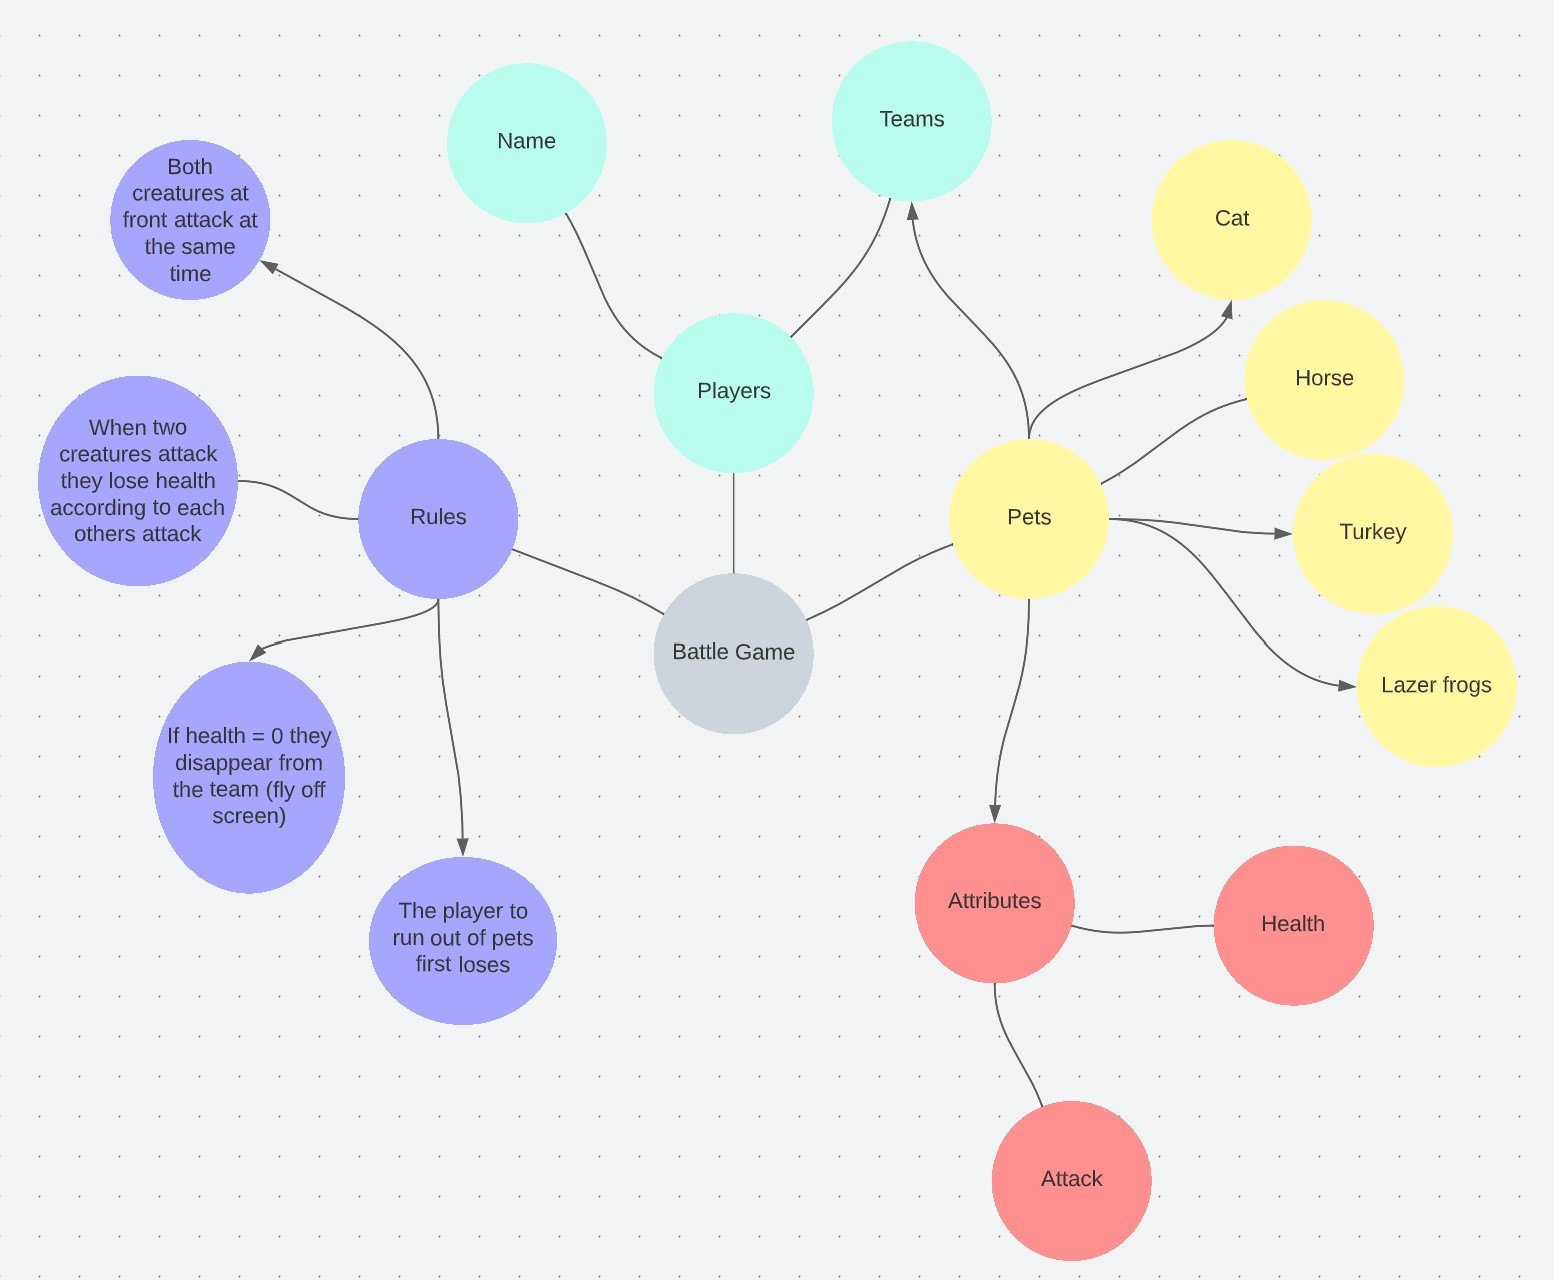
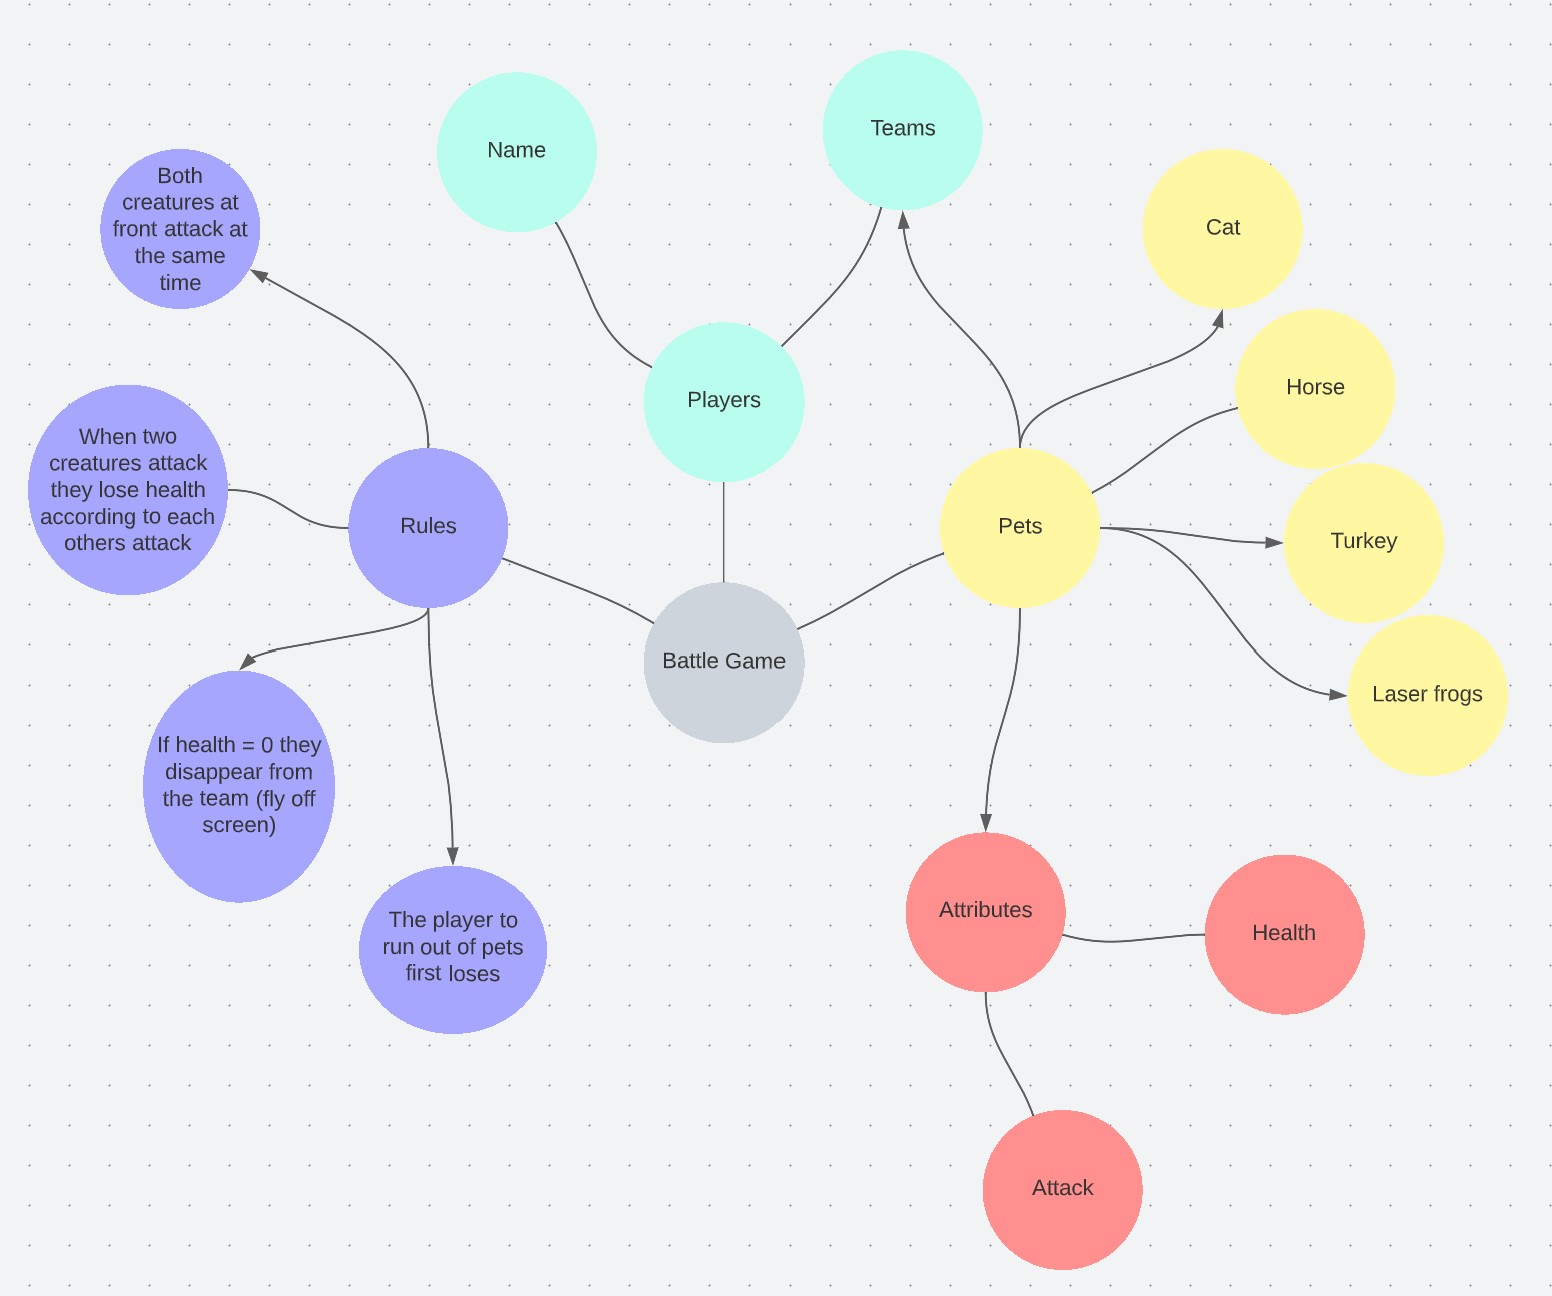
typos

diff --git a/_lessons/2022-06-10-Classes.md b/_lessons/2022-06-10-Classes.md
@@ -50,62 +50,62 @@ We'll take a quick look a the mind map we made and just pick something interesti
 
 ![mind map](../assets/mindmap.jpg)
 
-So for me there is one particular thing in the mind map that stands out. I'm of course going for a lazer frog.
+So for me there is one particular thing in the mind map that stands out. I'm of course going for a laser frog.
 
-Let's create a class to represent lazer frogs
+Let's create a class to represent laser frogs
 
 Here is the boring [blah blah blah about classes](https://docs.python.org/3/tutorial/classes.html) in the documentation. 
 
 We'll just dive in.
 
 ~~~python
-class LazerFrog:
+class LaserFrog:
 ~~~
 
-And we can then define things a LazerFrog does using "def"
+And we can then define things a LaserFrog does using "def"
 
 ~~~python
-class LazerFrog:
+class LaserFrog:
   def Battle(self):
-    print("The lazer frog fires a lazer at its opponent")
+    print("The laser frog fires a laser at its opponent")
 ~~~
 
-We can also have "attributes". Things that belong the a LazerFrog. One way to do this is to just set it. Here we introduce you to another thing about programming - Gobblydegook you just have to learn. But don't worry, you'll best learn it by just looking at what other people do and by usually getting it wrong. This is not only ok, it is very normal.
+We can also have "attributes". Things that belong the a LaserFrog. One way to do this is to just set it. Here we introduce you to another thing about programming - Gobblydegook you just have to learn. But don't worry, you'll best learn it by just looking at what other people do and by usually getting it wrong. This is not only ok, it is very normal.
 
-We can see some gobblydegook at play below. Specifically, every in method the word "self" is always the first parameter. You use it to refer to the "instance" of the thing (in our case an instance of a LazerFrog).
+We can see some gobblydegook at play below. Specifically, every in method the word "self" is always the first parameter. You use it to refer to the "instance" of the thing (in our case an instance of a LaserFrog).
 
 The second bit of gobblydegook is the method name __init__. This is a special method that will be call once and only once when you create an instance of your class (which we don't know how to do yet, but bear with us, not that we have coded bears yet).
 
 ~~~python
-class LazerFrog:
+class LaserFrog:
   def __init__(self):
-        self.LazerCharge = 10
+        self.LaserCharge = 10
        
   def Battle(self):
-    print("The lazer frog fires a lazer at its opponent")
+    print("The laser frog fires a laser at its opponent")
 ~~~
 
-Ok. Above I've decided that an attribute of a LazerFrog is to have some LazerCharge, lets do some more interesting things with it though. Every time we fire a lazer, lets reduce it. If we run out of lazer - sad face.
+Ok. Above I've decided that an attribute of a LaserFrog is to have some LaserCharge, lets do some more interesting things with it though. Every time we fire a laser, lets reduce it. If we run out of laser - sad face.
 
 Note here we are also using ["if" statements](https://docs.python.org/3/tutorial/controlflow.html)
 
 ~~~python
-class LazerFrog:
+class LaserFrog:
   def __init__(self):
-        self.LazerCharge = 10
+        self.LaserCharge = 10
        
   def Battle(self):
-    if(self.LazerCharge > 0):
-      print("The lazer frog fires a lazer at its opponent")
-      self.LazerCharge = self.LazerCharge - 1
+    if(self.LaserCharge > 0):
+      print("The laser frog fires a laser at its opponent")
+      self.LaserCharge = self.LaserCharge - 1
     else:
-      print("No lazer charge left. Sad face :(")
+      print("No laser charge left. Sad face :(")
 ~~~
 
-And to bring it all together we need to also create some instances of our brand new shiny "class". Until now we have only defined what a LazerFrog is. Let create some. To create an instance of class simply give it a name and say it is LazerFrog like this. Note more gobblydegook in the () bit. Why do you need these - because!
+And to bring it all together we need to also create some instances of our brand new shiny "class". Until now we have only defined what a LaserFrog is. Let create some. To create an instance of class simply give it a name and say it is LaserFrog like this. Note more gobblydegook in the () bit. Why do you need these - because!
 
 ~~~python
-Albert = LazerFrog()
+Albert = LaserFrog()
 ~~~
 
 Lets bring it altogether then I suggest you have a play around with it too.
@@ -122,10 +122,10 @@ And finally I've created a game loop so we can battle the frogs. TO THE DEATH!
 # We need to import some random functionality - imports give us access to other things than what python gives us out of the box
 import random
 
-# Here we create a definition of what a LazerFrog is
-class LazerFrog:
+# Here we create a definition of what a LaserFrog is
+class LaserFrog:
   def __init__(self, name):
-        self.LazerCharge = 10
+        self.LaserCharge = 10
         self.Name = name
         self.Health = 10
        
@@ -133,10 +133,10 @@ class LazerFrog:
     # We can only do battle if we are alive
     if(self.Health <= 0):
       print(self.Name + " is not alive, what do you think you are doing?")
-    elif(self.LazerCharge > 0):
-      # Fire a lazer
-      print(self.Name + " fires a lazer at " + other.Name)
-      self.LazerCharge = self.LazerCharge - 1
+    elif(self.LaserCharge > 0):
+      # Fire a laser
+      print(self.Name + " fires a laser at " + other.Name)
+      self.LaserCharge = self.LaserCharge - 1
 
       # Decide how much health to reduce - note random.randrange only works here because we imported random above
       attackPower = random.randrange(10)
@@ -148,11 +148,11 @@ class LazerFrog:
       else:
         print(other.Name + " took damage, but survives with a health of "+str(other.Health))
     else:
-      print(self.Name + " has no lazer charge left. Sad face :(")
+      print(self.Name + " has no laser charge left. Sad face :(")
 
-# Next we are going to create a couple of LazerFrogs and make them battle a little bit.
-Albert = LazerFrog("Albert")
-Gertrude = LazerFrog("Gertrude")
+# Next we are going to create a couple of LaserFrogs and make them battle a little bit.
+Albert = LaserFrog("Albert")
+Gertrude = LaserFrog("Gertrude")
 
 # Now we are going to go into a game loop at battle one against the other until one or the other loses
 # Loop while both Albert and Gertrude have health
